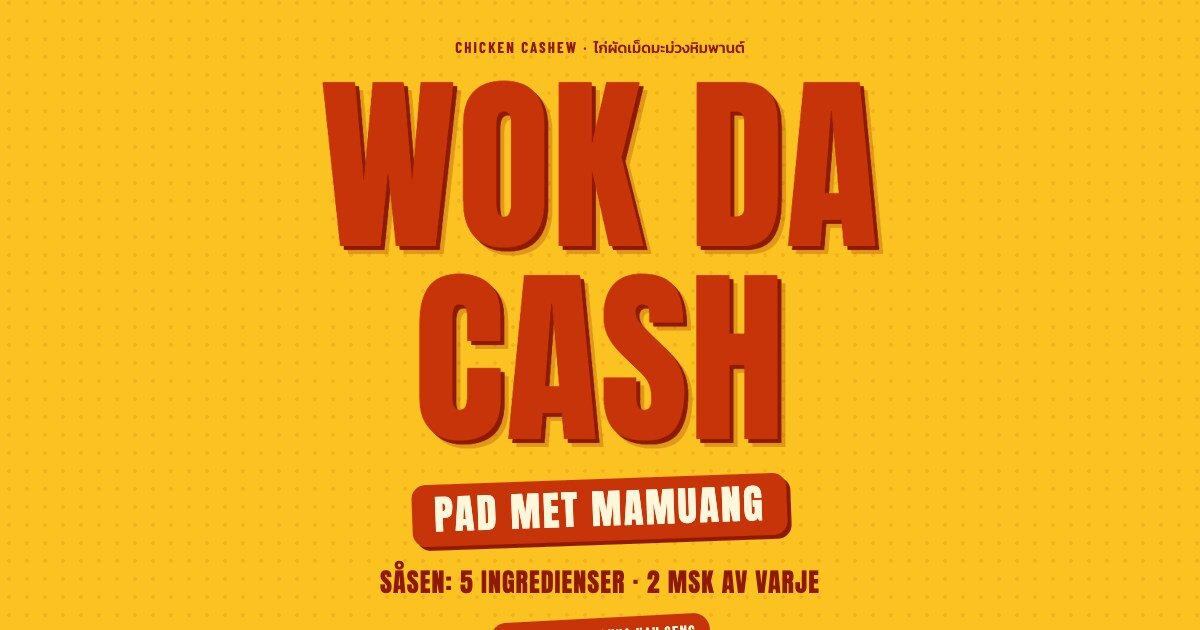
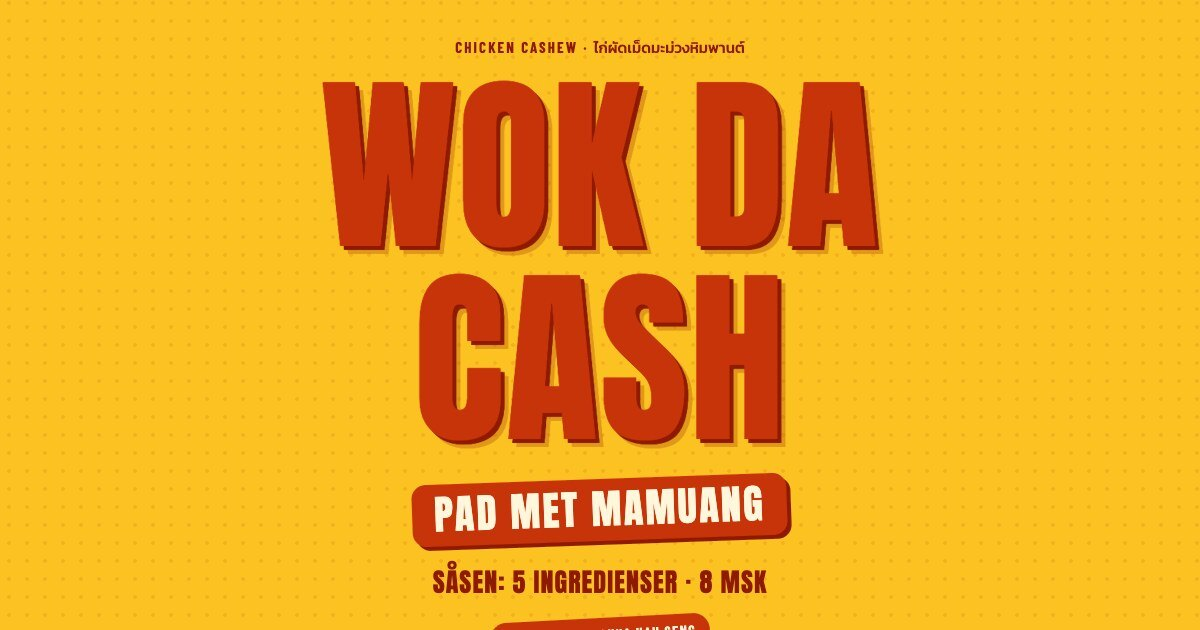
Wok da cash: 1 msk Golden Mountain och 1 msk palmsocker

Changed region(s): [[0.3083, 0.8746, 0.7092, 0.9651]]

diff --git a/wokdacash/index.html b/wokdacash/index.html
@@ -4,11 +4,11 @@
 <meta charset="utf-8">
 <meta name="viewport" content="width=device-width,initial-scale=1,viewport-fit=cover">
 <title>WOK DA CASH · Buttercup</title>
-<meta name="description" content="WOK DA CASH: Hugos pad met mamuang. Såsen (nam prik pao, ostronsås, ljus soja, Golden Mountain, palmsocker, 2 msk av varje) och hela rätten med friterad kyckling, chili och cashew.">
+<meta name="description" content="WOK DA CASH: Hugos pad met mamuang. Såsen: 2 msk vardera nam prik pao, ostronsås och ljus soja, 1 msk vardera Golden Mountain och palmsocker. Plus hela rätten med friterad kyckling, chili och cashew.">
 <meta property="og:type" content="website">
 <meta property="og:site_name" content="Buttercup">
 <meta property="og:title" content="WOK DA CASH">
-<meta property="og:description" content="WOK DA CASH: Hugos pad met mamuang. Såsen (nam prik pao, ostronsås, ljus soja, Golden Mountain, palmsocker, 2 msk av varje) och hela rätten med friterad kyckling, chili och cashew.">
+<meta property="og:description" content="WOK DA CASH: Hugos pad met mamuang. Såsen: 2 msk vardera nam prik pao, ostronsås och ljus soja, 1 msk vardera Golden Mountain och palmsocker. Plus hela rätten med friterad kyckling, chili och cashew.">
 <meta property="og:url" content="https://www.buttercup.nu/wokdacash/">
 <meta property="og:image" content="https://www.buttercup.nu/wokdacash/og.jpg">
 <meta property="og:image:width" content="1200">
@@ -104,7 +104,7 @@ footer a{color:var(--buttercup)}
   <p class="eyebrow">Chicken cashew · <span lang="th" style="font-family:Kanit,sans-serif;letter-spacing:0;font-weight:500">ไก่ผัดเม็ดมะม่วงหิมพานต์</span></p>
   <h1><span class="row">WOK DA</span><span class="row">CASH</span></h1>
   <p class="recipe">PAD MET MAMUANG</p>
-  <p class="sub">Såsen: 5 ingredienser · 2 msk av varje</p>
+  <p class="sub">Såsen: 5 ingredienser · 8 msk</p>
   <span class="badge">Nam prik pao: Chua Hah Seng</span>
 </header>
 
@@ -121,7 +121,7 @@ footer a{color:var(--buttercup)}
     </section>
     <section class="panel">
       <h3>Om såsen</h3>
-      <div class="store"><span>≈ 150 ml</span><span>2+2+2+2+2</span></div>
+      <div class="store"><span>≈ 120 ml</span><span>2+2+2+1+1</span></div>
       <p>Nam prik pao ger rostad sötma och färg, Golden Mountain och soja ger sälta, palmsocker rundar av. Hugos favorit är Chua Hah Seng (ฉั่วฮะเส็ง) i den blå burken.</p>
       <p class="note">Recept: Hugo. Mängden räcker ungefär till en wok med kyckling. Illustrationerna är tecknade med gpt-image efter originalförpackningarna.</p>
     </section>
@@ -157,8 +157,8 @@ const ING=[
   ["namprikpao","Nam prik pao","Chua Hah Seng","2 msk",false,"น้ำพริกเผา"],
   ["oyster","Ostronsås","Oyster sauce","2 msk",false,"น้ำมันหอย"],
   ["thinsoy","Ljus soja","Light soy","2 msk",false,"ซีอิ๊วขาว"],
-  ["goldenmountain","Golden Mountain","Seasoning sauce","2 msk",false,"ซอสปรุงรสภูเขาทอง"],
-  ["palmsugar","Palmsocker","Palm sugar","2 msk",false,"น้ำตาลปี๊บ"],
+  ["goldenmountain","Golden Mountain","Seasoning sauce","1 msk",false,"ซอสปรุงรสภูเขาทอง"],
+  ["palmsugar","Palmsocker","Palm sugar","1 msk",false,"น้ำตาลปี๊บ"],
 ];
 const g=document.getElementById('grid');
 ING.forEach(([k,name,sub,amt,est,th],i)=>{
